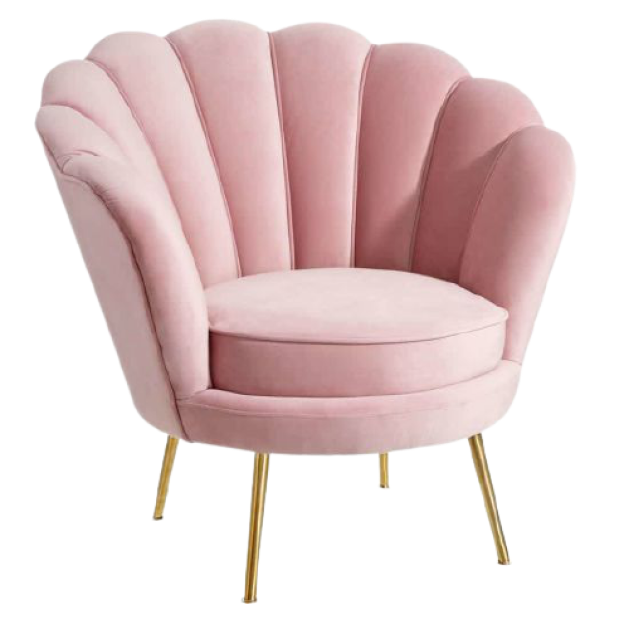
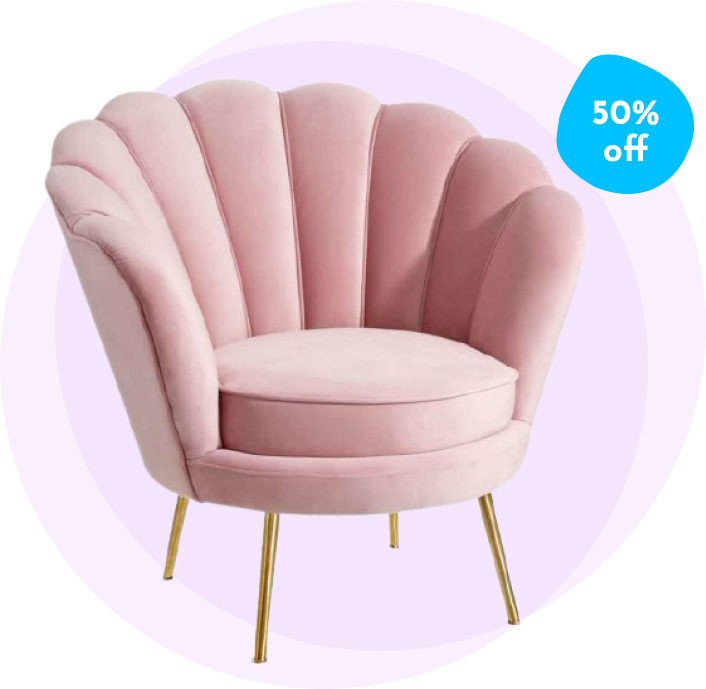
done

diff --git a/frontend/src/Mainbanner.js b/frontend/src/Mainbanner.js
@@ -1,7 +1,6 @@
-import light from "./images/light.png";
-import armchair from "./images/armchair.png";
-import vector from "./images/Vector 14.png";
-import "./style.css";
+import light from "./Images/light.png";
+import armchair from "./Images/armchair.png";
+import "./Mainbanner.css";
 export default function Mainbanner() {
     return (
         <>
@@ -17,7 +16,7 @@ export default function Mainbanner() {
                         <label>New Furniture Collection </label>
                     </div>
                     <div className="Mainbanner_center_l3">
-                       <label>Trends in 2020</label>
+                        <label>Trends in 2020</label>
                     </div>
                     <div className="Mainbanner_center_l4">
                         <label>Lorem ipsum dolor sit amet, consectetur adipiscing elit. Magna in est adipiscing</label>
@@ -27,21 +26,14 @@ export default function Mainbanner() {
                     </div>
                     <div className="Mainbanner_center_button">
                         <button>Shop Now</button>
-                    </div> 
+                    </div>
                 </div>
                 <div className="Mainbanner_right">
                     <div className="Mainbanner_right_image1">
                         <img src={armchair}></img>
                     </div>
-                    <div className="Mainbanner_right_image2">
-                        <img src={vector}></img>
-                        <div className="Mainbanner_right_image2_txt">50% off</div>
-                    </div>
-
                 </div>
-
             </div>
-
         </>
     )
 

diff --git a/frontend/src/Mainbanner.css b/frontend/src/Mainbanner.css
@@ -1,0 +1,61 @@
+.Mainbanner {
+    display: flex;
+    flex-direction: row;
+    background: #F2F0FF;
+}
+
+.Mainbanner_center {
+    display: flex;
+    flex-direction: column;
+    margin-top: 20%;
+    margin-left: -89px;
+}
+
+.Mainbanner_center_l1 {
+    Font-family: "segoe ui";
+    font-style: normal;
+    font-weight: 700;
+    font-size: 10px;
+    line-height: 28px;
+    color: #FB2E86;
+}
+
+.Mainbanner_center_l2,
+.Mainbanner_center_l3 {
+    Font-family: "segoe ui";
+    font-size: 30px;
+    line-height: 35px;
+    letter-spacing: 0.015em;
+    color: #000000;
+    font-weight: bold;
+}
+
+.Mainbanner_center_l4,
+.Mainbanner_center_l5 {
+    Font-family: "segoe ui";
+    font-style: normal;
+    font-weight: 700;
+    font-size: 8px;
+    line-height: 20px;
+    color: #8A8FB9;
+}
+
+.Mainbanner_center_button button {
+    Font-family: "segoe ui";
+    font-size: 10px;
+    letter-spacing: 0.02em;
+    color: #FFFFFF;
+    background-color: rgb(224, 42, 139);
+    outline: none;
+    border: none;
+    /* padding: 5px; */
+    margin-top: 20px;
+    width: 163px;
+    height: 50px;
+
+}
+
+.Mainbanner_right img {
+    width: 606px;
+    height: 589px;
+}

diff --git a/frontend/src/InBetweenBanner2.js b/frontend/src/InBetweenBanner2.js
@@ -1,17 +1,16 @@
-import rec from "./images/image1.png";
-import "./style.css";
+import rec from "./Images/inbetweenbanner2img.png";
+import "./InBetweenBanner2.css";
 
-export default function InBetweenBanner2(){
-    return(
-        <>
-          <div className="InBetweenBanner2" style={{backgroundImage: `url(${rec})`}}>
-            <div className="InBetweenBanner2_label1">Get Latest Update By Subscribe</div>
-            <div className="InBetweenBanner2_label2">Our Newslater</div>
-            <div className="InBetweenBanner2_button">
-                <button>Shop Now</button>
-            </div>
-             
-          </div>
-        </>
-    );
+export default function InBetweenBanner2() {
+  return (
+    <>
+      <div className="InBetweenBanner2" style={{ backgroundImage: `url(${rec})` }}>
+        <div className="InBetweenBanner2_label1">Get Latest Update By Subscribe</div>
+        <div className="InBetweenBanner2_label2">Our Newslater</div>
+        <div className="InBetweenBanner2_button">
+          <button>Shop Now</button>
+        </div>
+      </div>
+    </>
+  );
 }

diff --git a/frontend/src/InBetweenBanner2.css b/frontend/src/InBetweenBanner2.css
@@ -1,0 +1,38 @@
+.InBetweenBanner2 {
+    /* background-attachment: fixed; */
+    background-size: cover;
+    /* width: 100%; */
+    display: flex;
+    flex-direction: column;
+    padding: 10%;
+    text-align: center;
+}
+
+.InBetweenBanner2_label1 {
+    font-size: 35px;
+    Font-family: "segoe ui";
+    letter-spacing: 0.015em;
+    color: #151875;
+    font-weight: bold;
+}
+
+.InBetweenBanner2_label2 {
+    font-size: 35px;
+    Font-family: "segoe ui";
+    letter-spacing: 0.015em;
+    color: #151875;
+    font-weight: bold;
+
+}
+
+.InBetweenBanner2_button button {
+    Font-family: "segoe ui";
+    font-size: 17px;
+    letter-spacing: 0.02em;
+    color: #FFFFFF;
+    background-color: rgb(224, 42, 139);
+    outline: none;
+    border: none;
+    padding: 10px;
+    margin-top: 20px;
+}

diff --git a/frontend/src/Topcategories.js b/frontend/src/Topcategories.js
@@ -1,7 +1,7 @@
-import chair1 from "./images/chair1.png";
-import chair2 from "./images/chair2.png";
-import chair3 from "./images/chair3.png";
-import chair4 from "./images/chair4.png";
+import chair1 from "./Images/chair1.png";
+import chair2 from "./Images/chair2.png";
+import chair3 from "./Images/chair3.png";
+import chair4 from "./Images/chair4.png";
 import "./style.css";
 export default function Topcategories() {
     return (

diff --git a/frontend/src/index.js b/frontend/src/index.js
@@ -6,7 +6,7 @@ import Topcategories from './Topcategories';
 const root = ReactDOM.createRoot(document.getElementById('root'));
 root.render(
   <React.StrictMode>
-    <Topcategories/>
+    <Mainbanner/>
   </React.StrictMode>
 );
 
